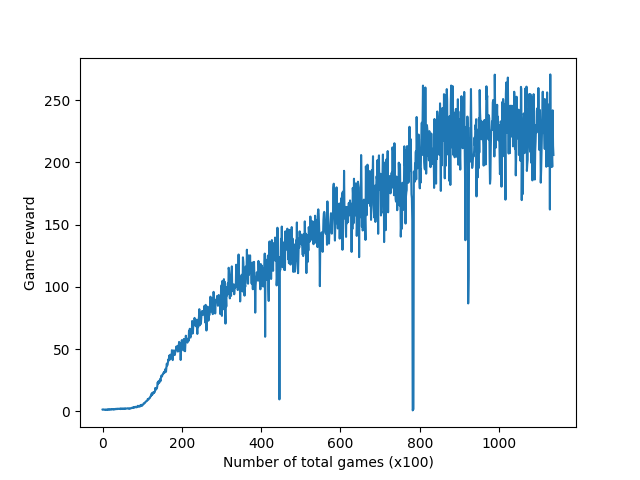
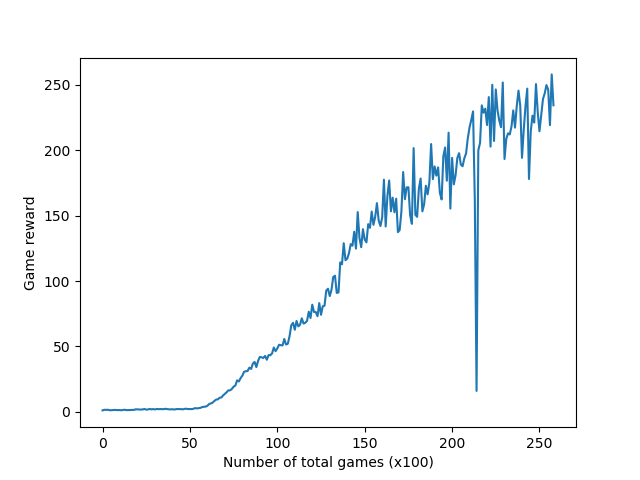
improve breakout sample efficiency

diff --git a/flare/examples/img_ac_example.py b/flare/examples/img_ac_example.py
@@ -15,10 +15,10 @@ if __name__ == '__main__':
     """
     game = "Assault-v0"
 
-    num_agents = 16
-    num_games = 8000
+    num_agents = 64
+    num_games = 500
 
-    im_height, im_width = 84, 84
+    im_height, im_width = 105, 80
     env_class = GymEnvImage
     env_args = dict(
         game_name=game,
@@ -45,23 +45,28 @@ if __name__ == '__main__':
     #    Here we use a small CNN as the perception net for the Actor-Critic algorithm
     cnn = nn.Sequential(
         nn.Conv2d(
-            d, 32, kernel_size=8, stride=4),
+            d, 32, kernel_size=5, padding=2),
         nn.ReLU(),
+        nn.MaxPool2d(2, 2),
         nn.Conv2d(
-            32, 64, kernel_size=4, stride=2),
+            32, 32, kernel_size=5, padding=2),
         nn.ReLU(),
+        nn.MaxPool2d(2, 2),
         nn.Conv2d(
-            64, 64, kernel_size=3, stride=1),
+            32, 64, kernel_size=3, padding=1),
         nn.ReLU(),
+        nn.MaxPool2d(2, 2),
+        nn.Conv2d(64, 64, kernel_size=3, padding=1),
+        nn.ReLU(),
+        nn.MaxPool2d(2, 2),
         Flatten(),  # flatten the CNN cube to a vector
-        nn.Linear(7 * 7 * 64, 512),
+        nn.Linear(1920, 512),
         nn.ReLU())
 
     alg = SimpleAC(
         model=SimpleModelAC(
             dims=(d, h, w), num_actions=num_actions, perception_net=cnn),
         optim=(optim.RMSprop, dict(lr=1e-4)),
-        grad_clip=5.0,
         gpu_id=1)
 
     # 3. Specify the settings for learning: data sampling strategy
@@ -73,7 +78,7 @@ if __name__ == '__main__':
             # sampling
             agent_helper=OnlineHelper,
             # each agent will call `learn()` every `sample_interval` steps
-            sample_interval=5,
+            sample_interval=2,
             num_agents=num_agents)
     }
 

diff --git a/flare/common/log.py b/flare/common/log.py
@@ -88,7 +88,6 @@ class GameLogger(Process):
     def __flush_log(self):
         for alg_name, stats in self.stats.items():
             logging.info('\n{0}:{1}'.format(alg_name, stats))
-        self.stats_q.put(copy.deepcopy(self.stats))
 
     def __save_models(self, idx):
         ## When agent.learning=False, this will not save models
@@ -119,7 +118,4 @@ class GameLogger(Process):
                 continue
             self.__process_log(log)
         self.__flush_log()
-        self.all_flushed.value = True
-        # wait for stats_q to be emptied by the manager
-        while not self.stats_q.empty():
-            pass
+        self.stats_q.put(copy.deepcopy(self.stats))

diff --git a/flare/framework/manager.py b/flare/framework/manager.py
@@ -107,11 +107,5 @@ class Manager(object):
 
         # Retrieve all the stats from the logger
         self.logger.running.value = False
-        self.stats = []
-        # wait for all the logs to be flushed
-        while not self.logger.all_flushed.value:
-            pass
-        while not self.logger.stats_q.empty():
-            self.stats.append(self.logger.stats_q.get())
-        self.logger.terminate()
+        self.stats = self.logger.stats_q.get()
         self.logger.join()

diff --git a/flare/examples/draw_reward_curve.py b/flare/examples/draw_reward_curve.py
@@ -1,0 +1,19 @@
+#!/usr/bin/python
+
+
+import sys
+import matplotlib.pyplot as plt
+
+
+if __name__ == "__main__":
+    log_file = sys.argv[1]
+    with open(log_file, "r") as f:
+        lines = f.read().splitlines()
+
+    rewards = [float(l.split()[-1][:-1]) for l in lines if 'total_reward' in l]
+
+    plt.plot(rewards)
+    plt.ylabel("Game reward")
+    plt.xlabel("Number of total games (x100)")
+
+    plt.savefig('/tmp/test.png')

diff --git a/flare/framework/agent.py b/flare/framework/agent.py
@@ -19,6 +19,7 @@ class AgentHelper(object):
         self.name = name
         self.comm = communicator
         self.counter = 0
+        assert sample_interval >= 2
         self.sample_interval = sample_interval
 
     def unpack_exps(self, exp_seqs):
